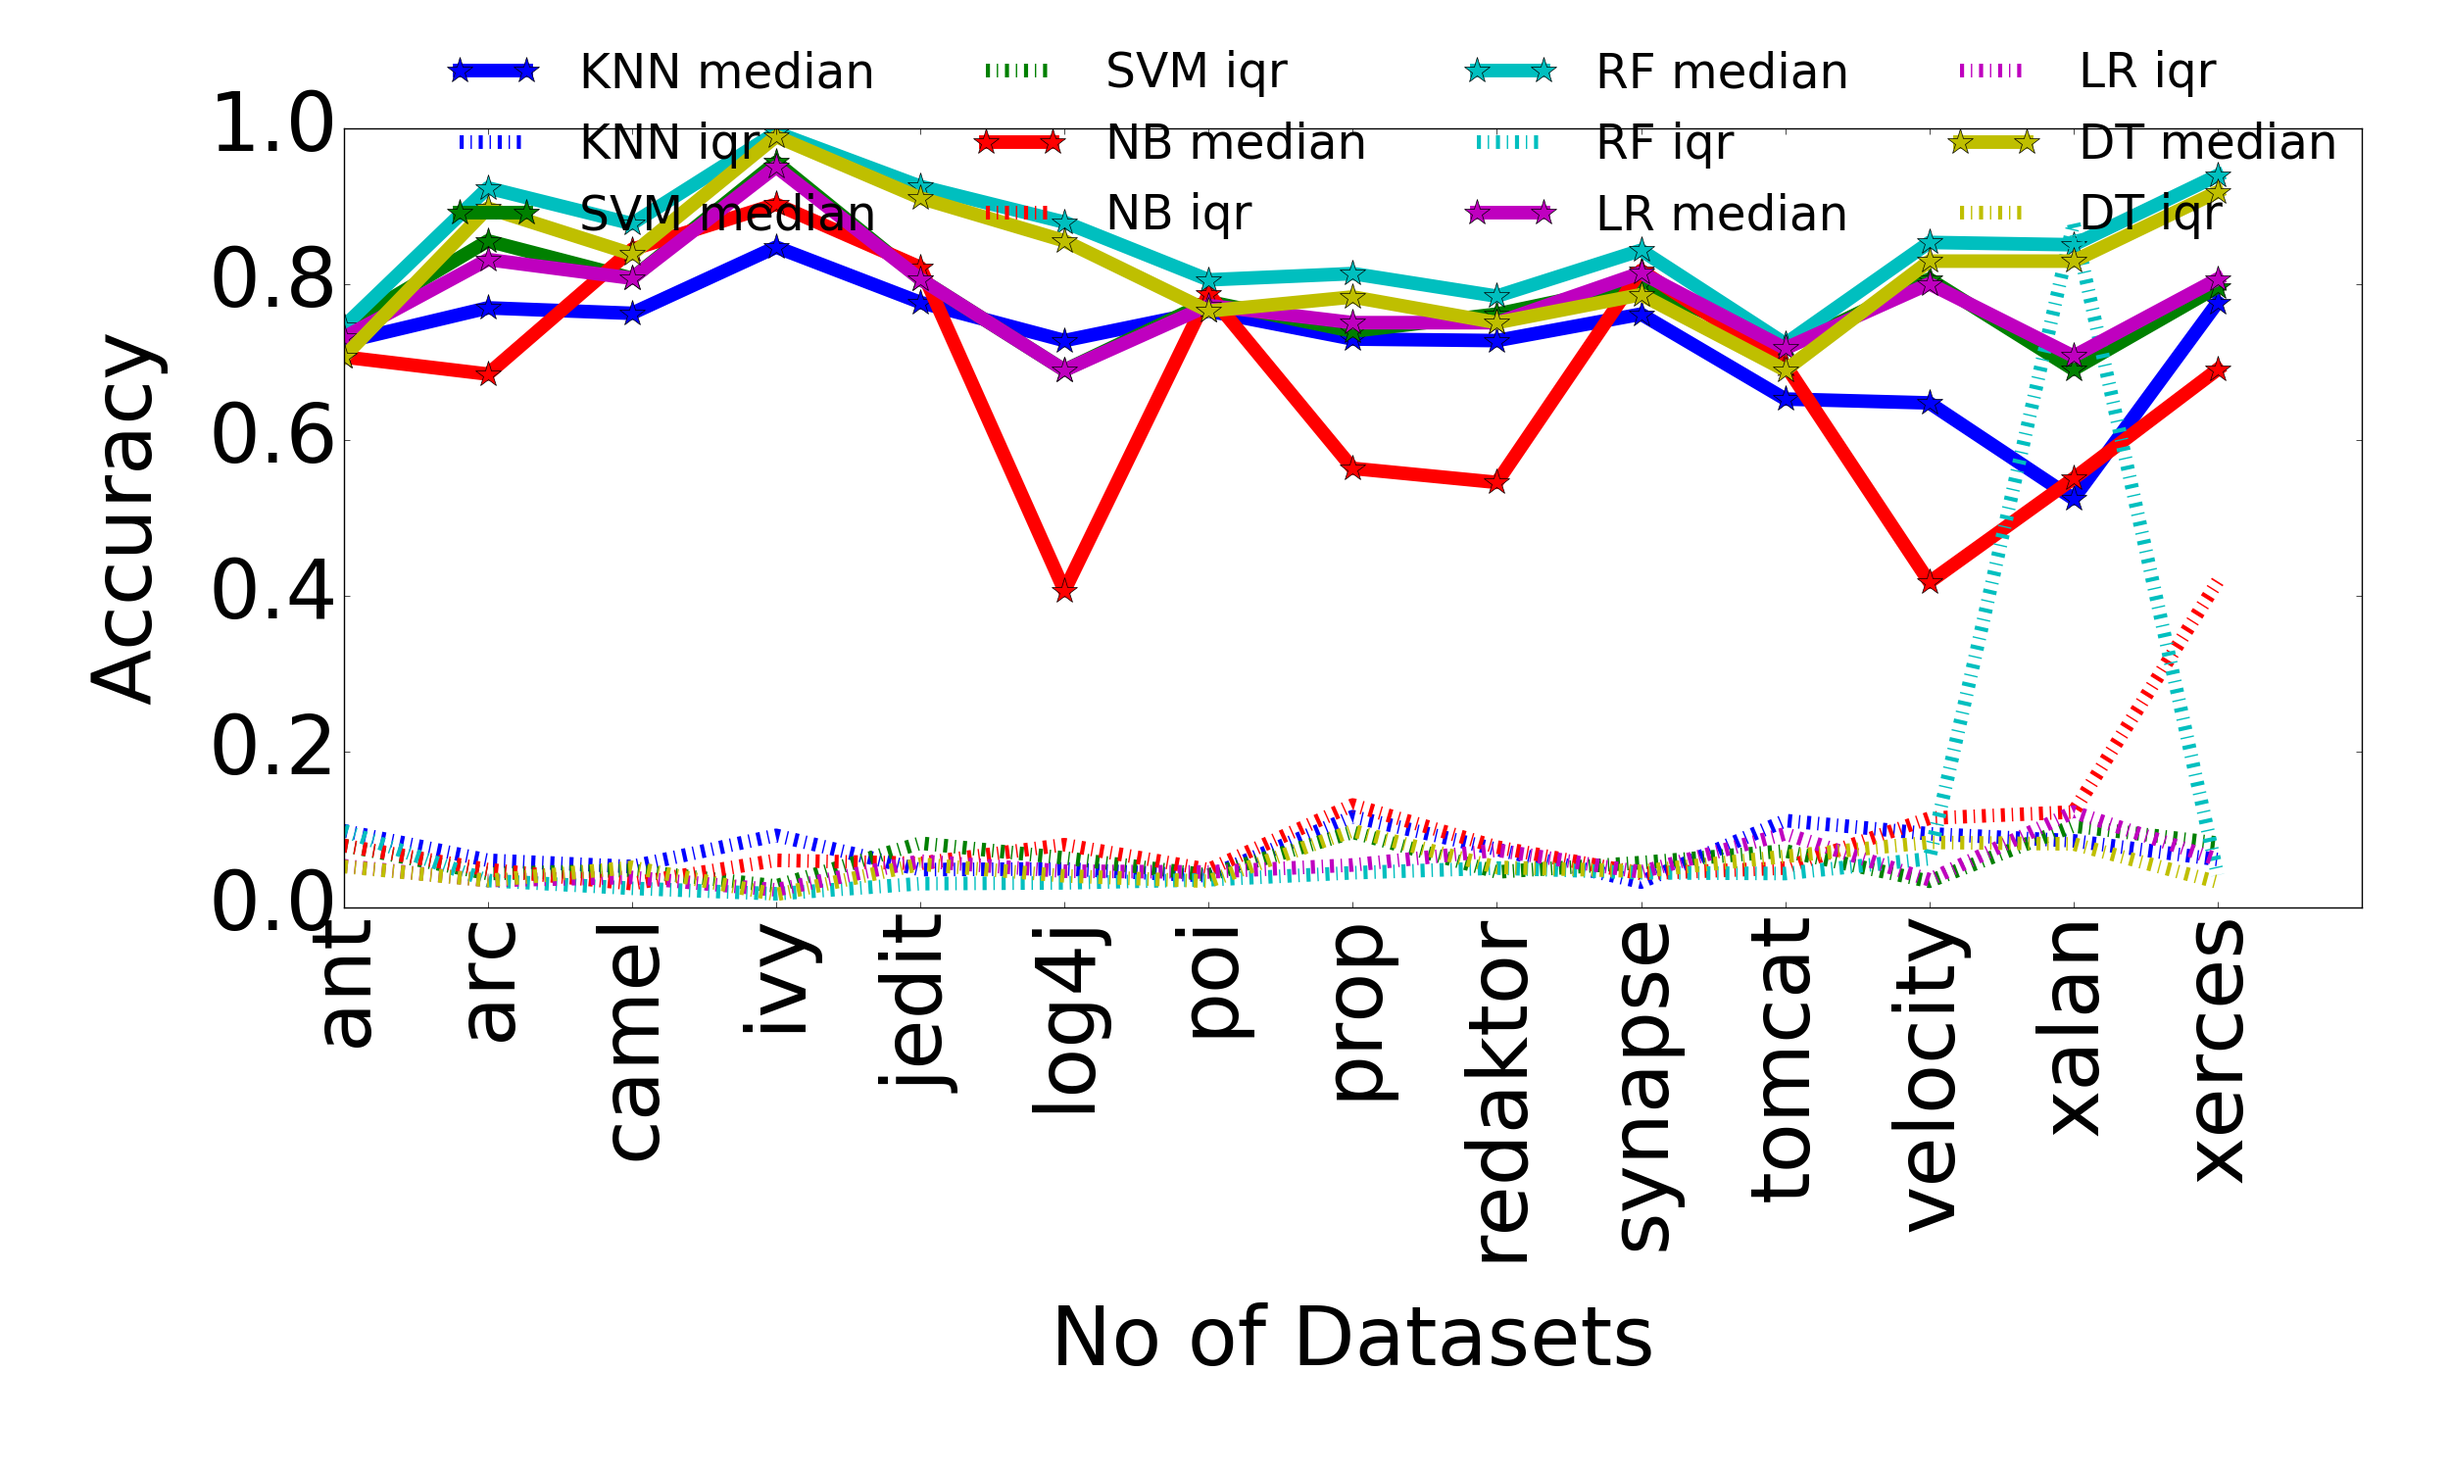
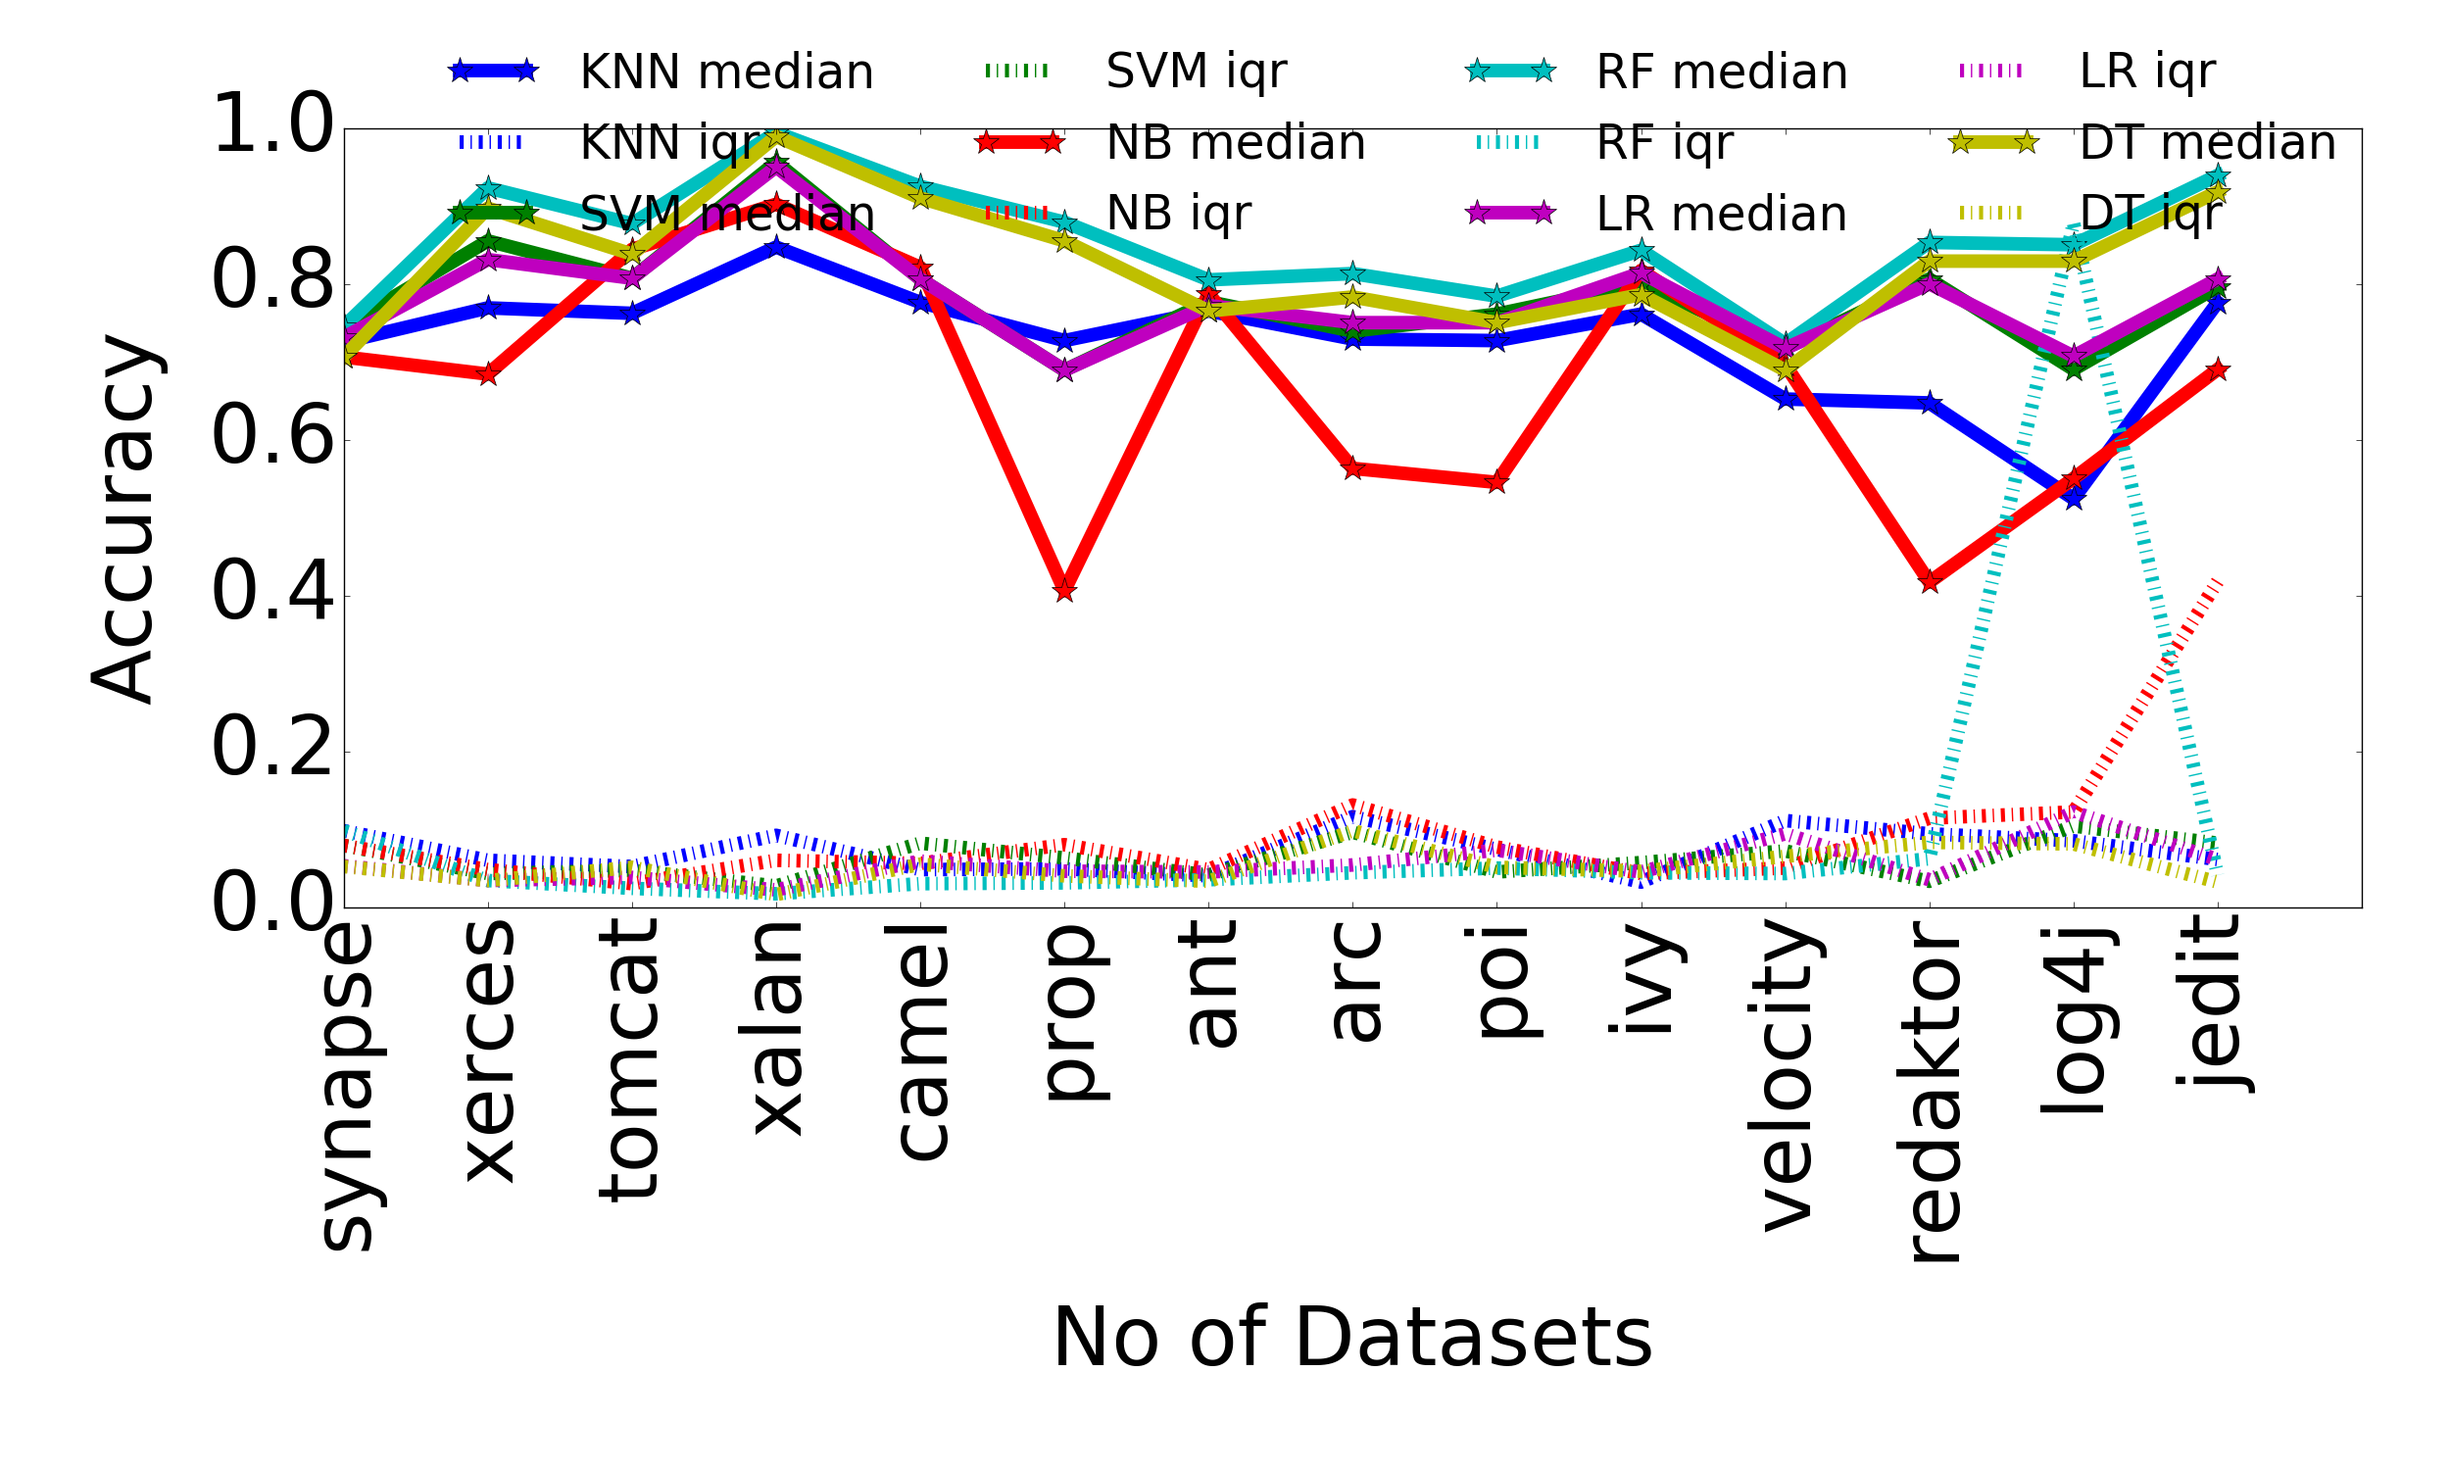
save

diff --git a/project/csvform.py b/project/csvform.py
@@ -2,10 +2,8 @@ __author__ = 'amrit'
 
 import matplotlib.pyplot as plt
 import os, pickle
-import operator
 import numpy as np
-import matplotlib.cm as cmx
-import matplotlib.colors as colors
+import csv
 
 if __name__ == '__main__':
 
@@ -23,13 +21,6 @@ if __name__ == '__main__':
                 F_final1 = dict(F_final1.items() + F_final.items())
     #print(F_final1)
 
-    font = {
-        'size': 60}
-
-    plt.rc('font', **font)
-    paras = {'lines.linewidth': 10, 'legend.fontsize': 35, 'axes.labelsize': 60, 'legend.frameon': False,
-             'figure.autolayout': True}
-    plt.rcParams.update(paras)
 
     measure_med = {}
     measure_iqr = {}
@@ -48,17 +39,20 @@ if __name__ == '__main__':
                     measure_med[mea][k[0]] = [np.median(k[1:])]
                     measure_iqr[mea][k[0]] = [np.percentile(k[1:], 75) - np.percentile(k[1:], 25)]
     X = range(len(fileB))
-    print(fileB)
-    for i,j in enumerate(measure_iqr.keys()):
-        plt.figure(num=i, figsize=(25, 15))
-        for k in measure_iqr[j].keys():
-            line,=plt.plot(X, measure_med[j][k],marker='*', markersize=20, label=k+' median')
-            plt.plot(X, measure_iqr[j][k],linestyle="-.", markersize=20,color=line.get_color(),label=k+' iqr')
-            #plt.ytext(0.04, 0.5, va='center', rotation='vertical', fontsize=11)
-            #plt.text(0.04, 0.5,"Rn (Raw Score)", labelpad=100)
-        plt.ylim(0.0, 1.0)
-        plt.xticks(X, fileB,rotation=90)
-        plt.ylabel(j, labelpad=30)
-        plt.xlabel("No of Datasets", labelpad=30)
-        plt.legend(bbox_to_anchor=(1.00, 1.13), loc=1, ncol=4, borderaxespad=0.1)
-        plt.savefig(j+"_smote.png")
+
+    with open('smote.csv', 'a+') as csvinput:
+        fields = ['Learners', 'Measures']+['synapse', 'xerces', 'tomcat', 'xalan', 'camel', 'prop', 'ant', 'arc', 'poi', 'ivy', 'velocity', 'redaktor', 'log4j', 'jedit']
+
+        writer = csv.writer(csvinput, delimiter=',',
+                            quotechar='|', quoting=csv.QUOTE_MINIMAL)
+        writer.writerow(fields)
+
+        for i,j in enumerate(measure_iqr.keys()):
+            plt.figure(num=i, figsize=(25, 15))
+            for k in measure_iqr[j].keys():
+                l=[]
+                for x,y in enumerate(measure_med[j][k]):
+                    l.append("{0:.2f}".format(measure_med[j][k][x]) + ' / ' + "{0:.2f}".format(measure_iqr[j][k][x]))
+
+                writer.writerow([k,  j]+l)
+

diff --git a/project/fault_prediction/fault_prediction/learners/Handler.py b/project/fault_prediction/fault_prediction/learners/Handler.py
@@ -73,15 +73,14 @@ class Handler(object):
                 neg_train.append(data_train[j])
         pos_train = np.array(pos_train)
         neg_train = np.array(neg_train)
+        num = int((len(pos_train) + len(neg_train)) / 2)
         if len(pos_train) < len(neg_train):
-            num = int((len(pos_train) + len(neg_train)) / 2)
             pos_train = self.smote(pos_train, num, k=neighbors)
             neg_train = neg_train[np.random.choice(len(neg_train), num, replace=False)]
             data_train1 = np.vstack((pos_train, neg_train))
             label_train = [1] * len(pos_train) + [0] * len(neg_train)
             return data_train1, label_train
         else:
-            num = int((len(pos_train) + len(neg_train)) / 2)
             neg_train = self.smote(neg_train, num, k=neighbors)
             pos_train = pos_train[np.random.choice(len(pos_train), num, replace=False)]
             data_train1 = np.vstack((pos_train, neg_train))
